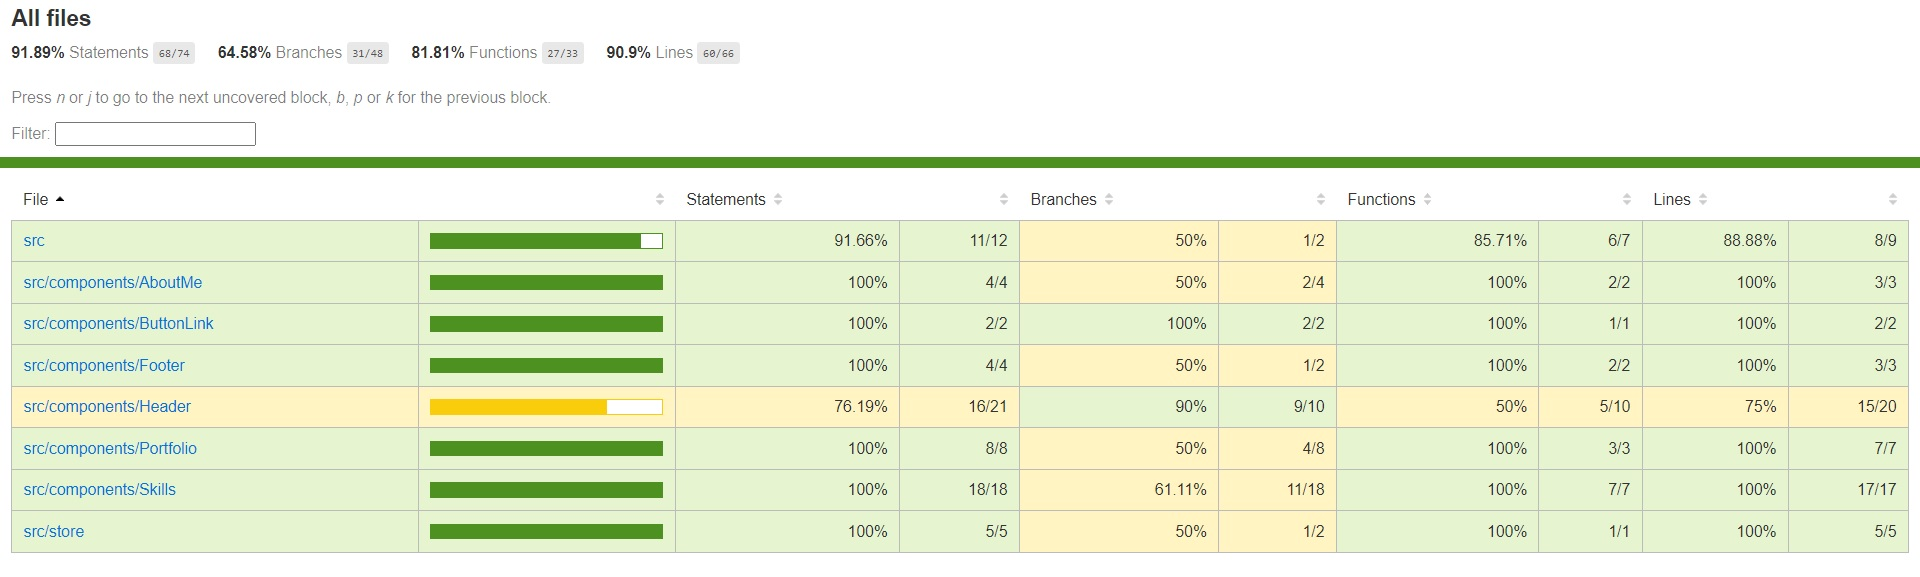
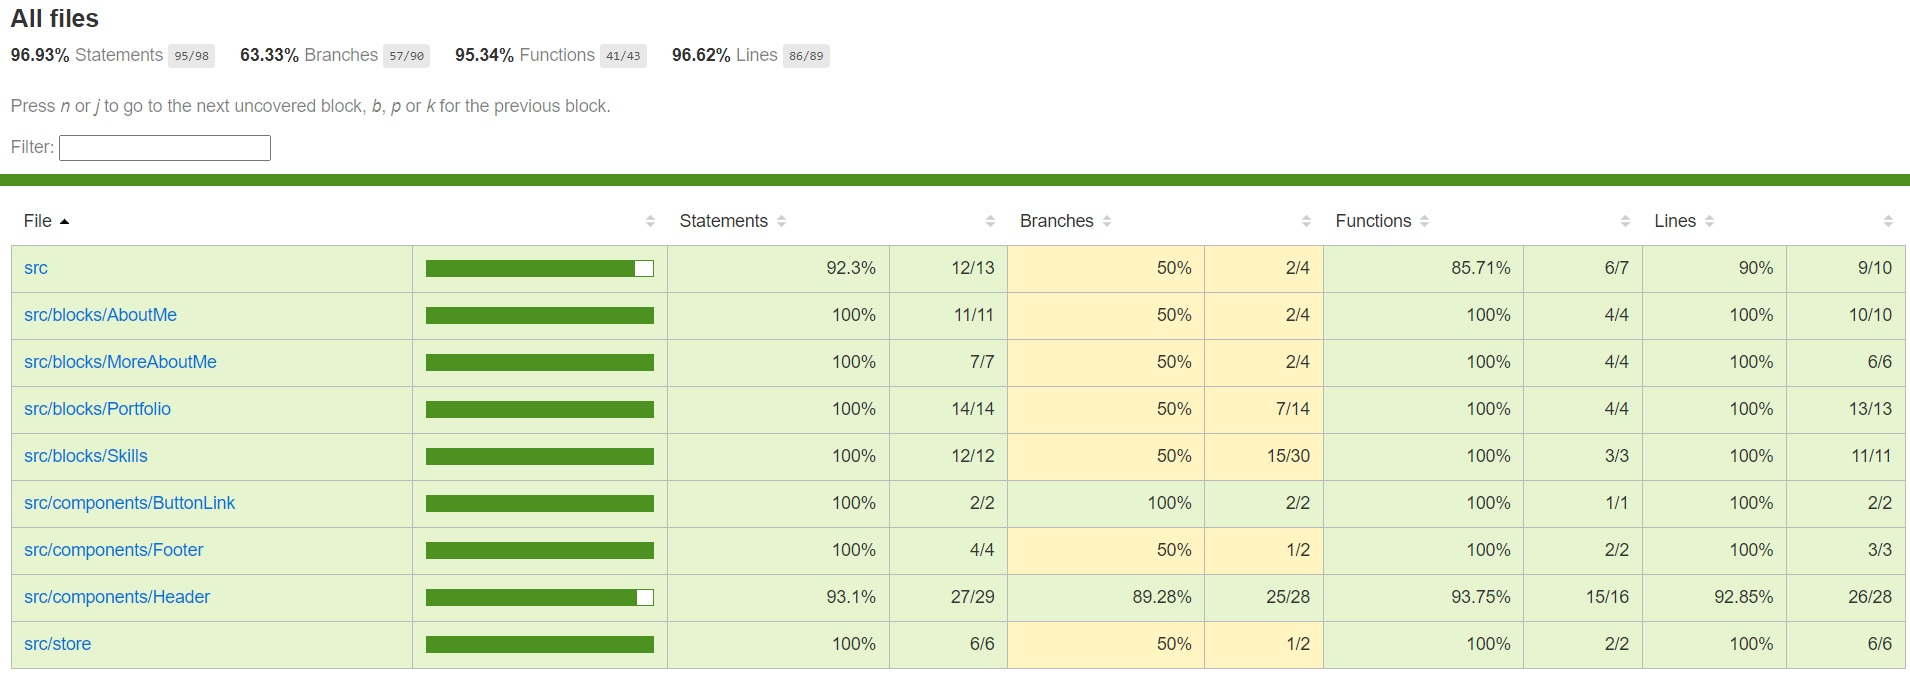
fix tests

Changed region(s): [[0.0, 0.0, 1.0, 0.9983]]

diff --git a/src/blocks/MoreAboutMe/index.tsx b/src/blocks/MoreAboutMe/index.tsx
@@ -2,7 +2,6 @@ import React, {Dispatch, SetStateAction} from 'react';
 import ArrowBackIcon from '@mui/icons-material/ArrowBack';
 import {useSelector} from "react-redux";
 import {RootState} from "../../store";
-// @ts-ignore
 import cv from "./cv_veronika_tseleva.pdf";
 
 const MoreAboutMe = ({openMoreInfo}: { openMoreInfo: Dispatch<SetStateAction<boolean>> }) => {
@@ -42,8 +41,9 @@ const MoreAboutMe = ({openMoreInfo}: { openMoreInfo: Dispatch<SetStateAction<boo
                     </p>
                     <div className={'flex flex-row flex-wrap justify-evenly'}>
                         {
-                            skills.map(item =>
-                                <p className={'p-2 border-2 border-sky-500 mobile:text-3xl text-xl lg:text-xs rounded-full text-nowrap hover:cursor-default'}>
+                            skills.map((item, i) =>
+                                <p  key={i}
+                                    className={'p-2 border-2 border-sky-500 mobile:text-3xl text-xl lg:text-xs rounded-full text-nowrap hover:cursor-default'}>
                                     {item}
                                 </p>
                             )

diff --git a/src/App.test.tsx b/src/App.test.tsx
@@ -4,18 +4,14 @@ import {Provider} from "react-redux";
 import {store} from "./store";
 import App from "./App";
 
-jest.mock('./images/1.png', ()=>'');
-jest.mock('./images/2.png', ()=>'');
-jest.mock('./images/3.png', ()=>'');
-jest.mock('./images/4.png', ()=>'');
-jest.mock('./images/5.png', ()=>'');
-jest.mock('./images/6.png', ()=>'');
-jest.mock('./images/7.png', ()=>'');
-jest.mock('./images/8.png', ()=>'');
-jest.mock('./images/9.png', ()=>'');
-jest.mock('./images/photo.jpg', ()=>'');
-jest.mock('./images/demo1.gif', ()=>'');
-jest.mock('./images/demo2.gif', ()=>'');
+jest.mock('../src/images/css_icon.png', ()=>'');
+jest.mock('../src/images/photo.jpg', ()=>'');
+jest.mock('../src/images/ygt_light.jpg', ()=>'');
+jest.mock('../src/images/ygt_dark.jpg', ()=>'');
+jest.mock('../src/images/mg_light.jpg', ()=>'');
+jest.mock('../src/images/mg_dark.jpg', ()=>'');
+jest.mock('../src/images/as_light.jpg', ()=>'');
+jest.mock('../src/images/as_dark.jpg', ()=>'');
 
 const intersectionObserverMock = () => ({
     observe: () => null,

diff --git a/src/blocks/Portfolio/Portfolio.test.tsx b/src/blocks/Portfolio/Portfolio.test.tsx
@@ -5,17 +5,13 @@ import {store} from "../../store";
 import Portfolio from "./index";
 
 jest.mock('../../images/css_icon.png', ()=>'');
-jest.mock('../../images/html_icon.png', ()=>'');
-jest.mock('../../images/tailwind_icon.png', ()=>'');
-jest.mock('../../images/js_icon.png', ()=>'');
-jest.mock('../../images/ts_icon.png', ()=>'');
-jest.mock('../../images/react_icon.png', ()=>'');
-jest.mock('../../images/rtl_icon.png', ()=>'');
-jest.mock('../../images/jest_icon.png', ()=>'');
-jest.mock('../../images/redux_icon.png', ()=>'');
 jest.mock('../../images/photo.jpg', ()=>'');
-jest.mock('../../images/demo1.gif', ()=>'');
-jest.mock('../../images/demo2.gif', ()=>'');
+jest.mock('../../images/ygt_light.jpg', ()=>'');
+jest.mock('../../images/ygt_dark.jpg', ()=>'');
+jest.mock('../../images/mg_light.jpg', ()=>'');
+jest.mock('../../images/mg_dark.jpg', ()=>'');
+jest.mock('../../images/as_light.jpg', ()=>'');
+jest.mock('../../images/as_dark.jpg', ()=>'');
 
 const intersectionObserverMock = () => ({
     observe: () => null,

diff --git a/src/components/Header/Header.test.tsx b/src/components/Header/Header.test.tsx
@@ -27,6 +27,14 @@ it('Header test 1', ()=>{
 
     render(<Comp />);
 
+    fireEvent.click( screen.getByTestId("DehazeIcon"));
+
+    fireEvent.click( screen.getByText("about"));
+    fireEvent.click( screen.getByText("skills"));
+    fireEvent.click( screen.getByText("pet-projects"));
+
+    fireEvent.click( screen.getByTestId("ArrowBackIosIcon"));
+
     fireEvent.click( screen.getAllByTestId("DarkModeIcon")[1]);
     fireEvent.click( screen.getAllByTestId("LightModeIcon")[1]);
 });
@@ -55,5 +63,9 @@ it('Header test 2', ()=>{
     render(<Comp />);
 
     fireEvent.click( screen.getByTestId("switch").childNodes[0]);
+
+    fireEvent.click( screen.getByText("about"));
+    fireEvent.click( screen.getByText("skills"));
+    fireEvent.click( screen.getByText("pet-projects"));
 
 });

diff --git a/src/components/ButtonLink/index.tsx b/src/components/ButtonLink/index.tsx
@@ -5,8 +5,8 @@ const ButtonLink = ({buttonText, link, ico, className} : IButtonLink) => {
 
     return (
         <button
-            className={`hover:text-neutral-100 active:text-neutral-100 text-inherit my-4 mobile:my-2 hover:bg-sky-500 h-16 ' +
-                'shadow-md active:hover:bg-sky-500 font-bold duration-500 border-4 border-sky-500 rounded-full text-center`}>
+            className={`hover:text-neutral-100 active:text-neutral-100 text-inherit my-4 mobile:my-2 hover:bg-sky-500' +
+                'shadow-md active:bg-sky-500 font-bold duration-500 border-4 border-sky-500 rounded-full text-center`}>
             <a target="_blank" href={link} className={`inline text-nowrap relative h-hull ${className}`}>
                 {ico ?? null}
                 {buttonText}

diff --git a/src/blocks/Skills/Skills.test.tsx b/src/blocks/Skills/Skills.test.tsx
@@ -5,17 +5,6 @@ import {store} from "../../store";
 import Skills from "./index";
 
 jest.mock('../../images/css_icon.png', ()=>'');
-jest.mock('../../images/html_icon.png', ()=>'');
-jest.mock('../../images/tailwind_icon.png', ()=>'');
-jest.mock('../../images/js_icon.png', ()=>'');
-jest.mock('../../images/ts_icon.png', ()=>'');
-jest.mock('../../images/react_icon.png', ()=>'');
-jest.mock('../../images/rtl_icon.png', ()=>'');
-jest.mock('../../images/jest_icon.png', ()=>'');
-jest.mock('../../images/redux_icon.png', ()=>'');
-jest.mock('../../images/photo.jpg', ()=>'');
-jest.mock('../../images/demo1.gif', ()=>'');
-jest.mock('../../images/demo2.gif', ()=>'');
 
 const intersectionObserverMock = () => ({
     observe: () => null,

diff --git a/src/blocks/AboutMe/AboutMe.test.tsx b/src/blocks/AboutMe/AboutMe.test.tsx
@@ -1,10 +1,16 @@
 import React from "react";
-import {render} from "@testing-library/react";
+import {fireEvent, render, screen} from "@testing-library/react";
 import {Provider} from "react-redux";
 import {store} from "../../store";
 import AboutMe from "./index";
 
 jest.mock('../../images/photo.jpg', ()=>'');
+
+const intersectionObserverMock = () => ({
+    observe: () => null,
+    disconnect: () => null
+})
+window.IntersectionObserver = jest.fn().mockImplementation(intersectionObserverMock);
 
 it('AboutMe test', ()=>{
 
@@ -17,4 +23,6 @@ it('AboutMe test', ()=>{
     }
 
     render(<Comp />)
+
+    fireEvent.click( screen.getByTestId("ArrowForwardIcon"));
 })

diff --git a/src/blocks/MoreAboutMe/MoreAboutMe.test.tsx b/src/blocks/MoreAboutMe/MoreAboutMe.test.tsx
@@ -1,0 +1,22 @@
+import React from "react";
+import {fireEvent, render, screen} from "@testing-library/react";
+import {Provider} from "react-redux";
+import {store} from "../../store";
+import MoreAboutMe from "./index";
+
+jest.mock('./cv_veronika_tseleva.pdf', ()=>'');
+
+it('MoreAboutMe test', ()=>{
+
+    const Comp = ()=>{
+        return(
+            <Provider store={store}>
+            <MoreAboutMe openMoreInfo={()=>{}} />
+            </Provider>
+        )
+    }
+
+    render(<Comp />)
+
+    fireEvent.click( screen.getByTestId("ArrowBackIcon"));
+})

diff --git a/src/blocks/Skills/index.tsx b/src/blocks/Skills/index.tsx
@@ -7,21 +7,6 @@ import css_icon from '../../images/css_icon.png'
 
 import {setCurrentBlock} from "../../store/slice";
 
-const skills = [
-    'JavaScript',
-    'Material UI',
-    'React',
-    'Redux Toolkit',
-    'TailwindCSS',
-    'CSS',
-    'Adaptive Web Design',
-    'TypeScript',
-    'Jest',
-    'React Router',
-    'HTML',
-    'React Testing Library',
-];
-
 const Skills = () => {
     const dispatch = useDispatch();
     const {theme} = useSelector((state: RootState) => state.PortfolioLandingPageStore);

diff --git a/src/components/Footer/index.tsx b/src/components/Footer/index.tsx
@@ -4,9 +4,10 @@ import {useSelector} from "react-redux";
 import TelegramIcon from "@mui/icons-material/Telegram";
 import GitHubIcon from "@mui/icons-material/GitHub";
 import AlternateEmailIcon from "@mui/icons-material/AlternateEmail";
+import LinkedInIcon from "@mui/icons-material/LinkedIn";
 
 import {RootState} from "../../store";
-import LinkedInIcon from "@mui/icons-material/LinkedIn";
+
 
 const Footer = () => {
     const {theme} = useSelector((state: RootState) => state.PortfolioLandingPageStore);
